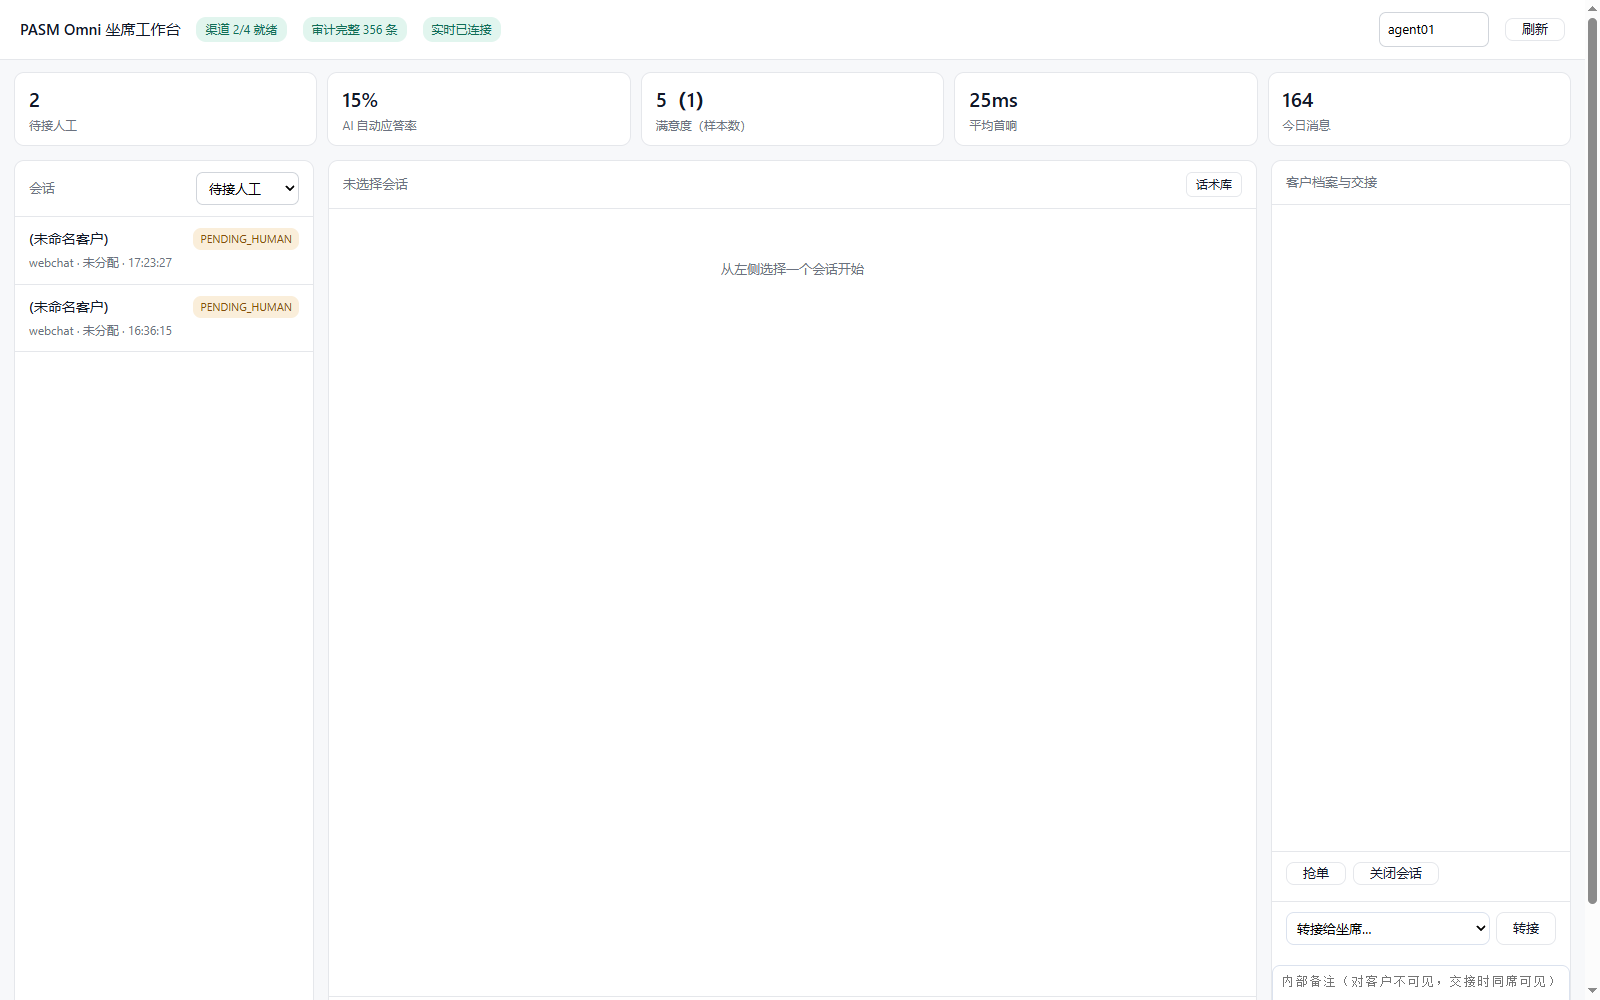
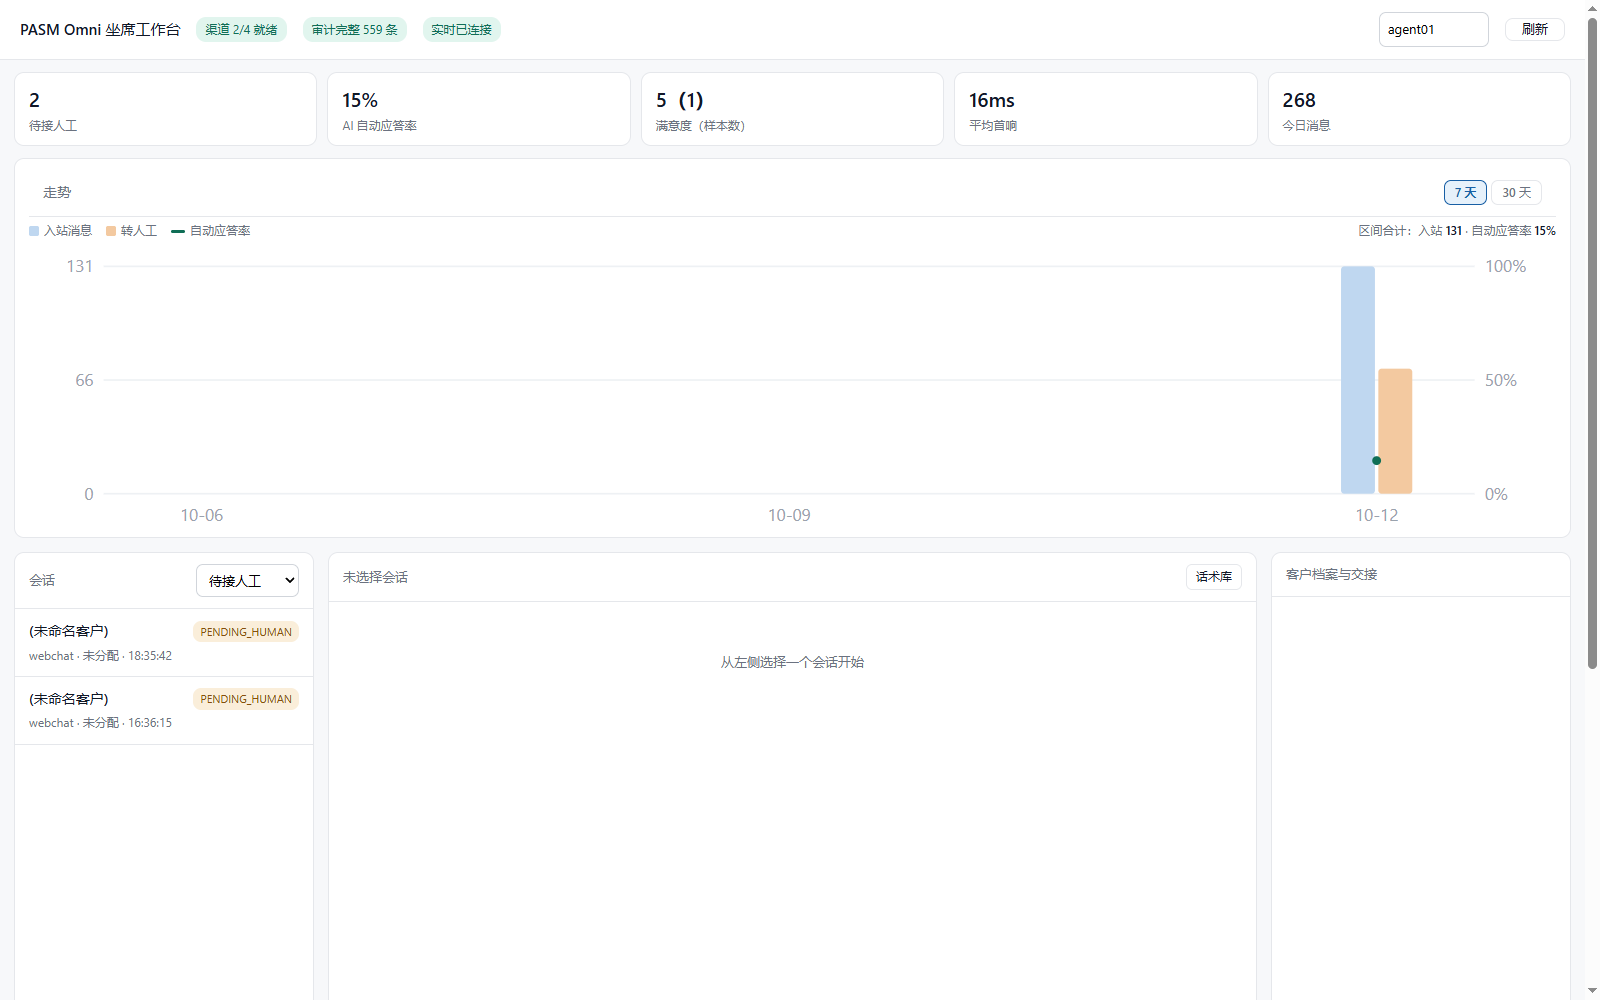
同步站点与截图（2026-10-12 19:02）

diff --git a/products.html b/products.html
@@ -51,6 +51,9 @@
           <tr data-page-node-id="MQ5A90oqJgRS6rzSbKZQUq"><td data-page-node-id="Dp8VEzkk27h209UV4o4jcO">Telegram 渠道</td><td data-page-node-id="C6Sb3V49tzL1bu7mpeE6cQ">Bot Token 配置即用</td><td class="center yes" data-page-node-id="ORuE3Mu8Ft6u0jpBELqRHK">✓</td><td class="center yes" data-page-node-id="U6p90cg0KBWsScDBUq27nh">✓</td></tr>
           <tr data-page-node-id="w4wnrKpPrSPLA9b5ctrKkt"><td data-page-node-id="vYPWDKpNGSwOzfdP9fDSfn">passthrough 通用外接口</td><td data-page-node-id="EOuHoniRH96nEDidRR5MdZ">任何语言/任何既有系统 POST JSON 即接入，出站可配转发地址</td><td class="center yes" data-page-node-id="cPOqcwJCTjDPxio3SbFbIi">✓</td><td class="center yes" data-page-node-id="yRAjylSGmWEx715Ub0bGJy">✓</td></tr>
           <tr><td>企业微信渠道</td><td>自建应用回调（含 AES 加密、签名校验、URL 验证）＋应用消息主动下发；access_token 自动缓存刷新。零第三方依赖的纯 Python AES，经 FIPS-197 / NIST 官方向量与企微官方协议样例双重验证</td><td class="center yes">✓</td><td class="center yes">✓</td></tr>
+          <tr><td>Line 渠道</td><td>Messaging API：<code>X-Line-Signature</code> （HMAC-SHA256 + base64）验签；只放行文本消息事件，图片/贴纸等不入应答域；出站走 Push API（不受 Reply Token 30 秒时效限制）</td><td class="center yes">✓</td><td class="center yes">✓</td></tr>
+          <tr><td>飞书 / Lark 渠道</td><td>事件订阅 v2：支持 <b>URL 验证</b>、明文与 <b>AES 加密模式</b>（key=sha256(encrypt_key)、IV=密文前 16 字节）；群聊按 chat_id 归人，避免全群挤成一个客户档案</td><td class="center yes">✓</td><td class="center yes">✓</td></tr>
+          <tr><td>钉钉渠道</td><td>企业机器人回调：<code>sign</code> 加签校验（含官方固定的换行格式）；优先用回调自带 <code>sessionWebhook</code> 回话（零额外配置），过期后自动走开放平台机器人接口兜底</td><td class="center yes">✓</td><td class="center yes">✓</td></tr>
           <tr data-page-node-id="fmXkhEerBK7bBswJQNTsZB"><td data-page-node-id="vxPsLxNeGyCRAKknbtDwu3">自定义渠道注册表</td><td data-page-node-id="FxBZgMvwVaM8mUjtm55MoE">继承 Channel + register() 即成为正式渠道，内核零改动；支持 load_external 第三方包</td><td class="center yes" data-page-node-id="ByrtCpBKQ1Alsn9K4NvIHG">✓</td><td class="center yes" data-page-node-id="k3cG7rUETlUr8ggJGNdEod">✓</td></tr>
           <tr data-page-node-id="1uy26h6xyrm5PFd8VBrd2O"><td data-page-node-id="KVm536obugGldOZhGzx6BG">WhatsApp / 微信等</td><td data-page-node-id="kiXIiRDSFUY1hzNwR4foXl">需挂靠 BSP 或企业资质（Meta 合作伙伴阶梯不可跳级），交付时协助接入</td><td class="center plan" data-page-node-id="zFdEI9QitDUKSqq1SGVUbp">BSP 协助</td><td class="center plan" data-page-node-id="r7DuSZwlJhLL9v8zABzv4y">企业版含</td></tr>
 
@@ -85,7 +88,7 @@
           <tr data-page-node-id="cfs0hCXudvusSgjcVO4jJE"><td data-page-node-id="qorRAA1IiWePUoMCxqCx9w">订单/商品管理</td><td data-page-node-id="jRVKRXyzHaCEmchBDzE0nz">需对接电商平台，属应用层而非内核职责</td><td class="center plan" data-page-node-id="VFcARrBdbwiPyTE8bXSP2c">规划中</td><td class="center plan" data-page-node-id="rqxGN5k4oyEhpD5VUGVBqV">规划中</td></tr>
 
           <tr data-page-node-id="TZnXqnCurElOPVnnWFEjr5"><td colspan="4" class="grp" data-page-node-id="r3GtY8c0U6aVPRJuddIDgP">—— 数据与治理 ——</td></tr>
-          <tr data-page-node-id="BLyxgwKyoQsD9teZqbcZKC"><td data-page-node-id="v0DgyuRFpDExoR5OAa587H">数据报表看板</td><td data-page-node-id="HiDt4q6sAIHGzHSrqWe4dE">AI 应答率 / 首响耗时 / 满意度 / 会话与客户分布 / 今日消息量</td><td class="center yes" data-page-node-id="saURiv80fXYMYhS5dr4YGW">✓</td><td class="center yes" data-page-node-id="5KYvvxd6juZu4R1kQkJ9g6">✓</td></tr>
+          <tr data-page-node-id="BLyxgwKyoQsD9teZqbcZKC"><td data-page-node-id="v0DgyuRFpDExoR5OAa587H">数据报表看板</td><td data-page-node-id="HiDt4q6sAIHGzHSrqWe4dE">AI 应答率 / 首响耗时 / 满意度 / 会话与客户分布 / 今日消息量；<b>7/30 天走势图</b>（入站量、转人工、自动应答率折线，内联 SVG 零依赖）</td><td class="center yes" data-page-node-id="saURiv80fXYMYhS5dr4YGW">✓</td><td class="center yes" data-page-node-id="5KYvvxd6juZu4R1kQkJ9g6">✓</td></tr>
           <tr data-page-node-id="ZWrcGShHyHbEqG8uyaD2p9"><td data-page-node-id="Bp3tC3rIYRhi8gwXIVdz1j">审计 hash 链</td><td data-page-node-id="ekw8bsYVreB5M49nv2WJPW">追加写 + 链式 hash，篡改/删除任意一条即时暴露，可定位断点</td><td class="center yes" data-page-node-id="2bi95zcNbyjFlgOG1HlBZs">✓</td><td class="center yes" data-page-node-id="mdjCuPrEz7qsLuTWVgJwEV">✓</td></tr>
           <tr data-page-node-id="JDw3jF3shICkzL5pSzwre9"><td data-page-node-id="TVxaMtqDZrV5Cbo3W8UOGq">工具级 RBAC</td><td data-page-node-id="gB4OWmOsxCadA21kIuxTJH">默认拒绝：高危工具未经显式授权即拒，拒绝也留痕</td><td class="center yes" data-page-node-id="8ssNetDLDDYlDtKNwe3IKD">✓</td><td class="center yes" data-page-node-id="aZokzpoDG3aFHOAFldqWXG">✓</td></tr>
           <tr data-page-node-id="duRcY3m4tbFwUb8ZgvbbzC"><td data-page-node-id="WHuUQOlP6Zb1ORcKoKmKgf">REST API</td><td data-page-node-id="ufIMkczhgmqNgZjo5Hfcgo">全部能力 HTTP 化，CORS 开放，供自有系统集成</td><td class="center yes" data-page-node-id="B04s9gFyV5Ddob23wfFSNc">✓</td><td class="center yes" data-page-node-id="8uEkvcydG7B3WMkcmcbqB2">✓</td></tr>

diff --git a/resources.html b/resources.html
@@ -70,6 +70,7 @@
           <li><span class="doc">wecom</span> 配置 / 查看企业微信渠道（corpid / agentid / secret / token / aeskey）</li>
           <li><span class="doc">templates</span> 消息模板与审核态：list / add / submit / approve / reject / render</li>
           <li><span class="doc">orders</span> 订单打通：enable / list / lookup / add / stats</li>
+          <li><span class="doc">channel</span> 配置/查看可选渠道（line / feishu / dingtalk，密钥自动打码）</li>
                     <li><span class="doc">link-add / link-list</span> 分流链接（活码）管理</li>
         </ul>
       </div>
@@ -119,6 +120,9 @@
           <tr><td><code>POST /inbound/shopify</code></td><td>Shopify 订单 webhook（HMAC 验签）</td></tr>
           <tr><td><code>POST /inbound/woocommerce</code></td><td>WooCommerce 订单 webhook（HMAC 验签）</td></tr>
           <tr><td><code>POST /inbound/orders/{source}</code></td><td>通用订单 webhook（base64 或 hex 签名）</td></tr>
+          <tr><td><code>POST /inbound/line</code></td><td>Line webhook（HMAC 验签）</td></tr>
+          <tr><td><code>POST /inbound/feishu</code></td><td>飞书事件回调（URL 验证 / 明文 / AES 加密）</td></tr>
+          <tr><td><code>POST /inbound/dingtalk</code></td><td>钉钉机器人回调（加签校验）</td></tr>
           <tr><td><code>GET /api/orders</code></td><td>订单列表与统计（agent 级）</td></tr>
           <tr><td><code>GET /api/orders/lookup</code></td><td>按单号 / 客户查订单（agent 级）</td></tr>
           <tr><td><code>POST /api/orders</code></td><td>手动/ERP 写入订单（<b>仅 admin</b>）</td></tr>
@@ -129,6 +133,7 @@
           <tr><td><code>POST /api/track</code></td><td>访客轨迹上报（external_id 自动解析建档）</td></tr>
           <tr><td><code>GET /api/visitors</code></td><td>访客轨迹时间线</td></tr>
           <tr><td><code>GET /api/analytics</code></td><td>数据报表（应答率/首响/满意度/分布）</td></tr>
+          <tr><td><code>GET /api/analytics/trend</code></td><td>按天走势（工作台图表用，agent 级；days=1–90）</td></tr>
           <tr><td><code>GET /api/contacts</code></td><td>客户列表（按分层/标签筛选）</td></tr>
           <tr><td><code>POST /api/contact/tag|tier|untag</code></td><td>客户标签与分层管理</td></tr>
           <tr><td><code>GET /api/knowledge</code></td><td>知识库列表</td></tr>
@@ -251,7 +256,7 @@
         <div class="a">免费版与商业版都是：只用 Python 标准库（sqlite3 / http.server / hashlib / json），Python 3.11+ 即可运行。CI 里有静态扫描守门：包内任何顶层 import pasm 都会让测试失败。</div>
       </details>
       <details>
-        <summary>579 项守门测试是什么？</summary>
+        <summary>692 项守门测试是什么？</summary>
         <div class="a">四套自动化测试：端到端 46 项（渠道/状态机/闸门/审计）、大脑层 34 项（含 PASM 真实集成）、功能补强 37 项（本轮全部 bug 修复与新功能）、HTTP 层 48 项（真实服务全链路）。全部退出码 0。</div>
       </details>
       <details>

diff --git a/promotion.html b/promotion.html
@@ -133,7 +133,7 @@
     </div>
     <div class="cards">
       <div class="card"><div class="icon">💰</div><h3>高额持续返佣</h3><p>每笔新订阅 10%–30% 返佣，连续 24 个月续费仍分成，一次推荐长期收益。</p></div>
-      <div class="card"><div class="icon">🛡</div><h3>产品真能打</h3><p>579 项守门测试全绿、零依赖可私有化、MCP 原生——推荐出去不砸自己招牌。</p></div>
+      <div class="card"><div class="icon">🛡</div><h3>产品真能打</h3><p>692 项守门测试全绿、零依赖可私有化、MCP 原生——推荐出去不砸自己招牌。</p></div>
       <div class="card"><div class="icon">📚</div><h3>专属顾问支持</h3><p>提供推广素材、答疑与跟进，你只负责分享，其余我们来。</p></div>
       <div class="card"><div class="icon">🌐</div><h3>关系网络复利</h3><p>加入即进入推荐官网络，客户资源互相引荐，收益渠道持续拓宽。</p></div>
     </div>

diff --git a/index.html b/index.html
@@ -69,7 +69,7 @@
     <div><div class="n">579</div><div class="l">项守门测试全绿</div></div>
     <div><div class="n">0</div><div class="l">第三方依赖（标准库实现）</div></div>
     <div><div class="n">30</div><div class="l">个 MCP 工具直接调用</div></div>
-    <div><div class="n">5</div><div class="l">内置渠道，外接不限</div></div>
+    <div><div class="n">8</div><div class="l">内置渠道，外接不限</div></div>
   </div>
 </div>
 
@@ -227,7 +227,7 @@
   <div class="wrap">
     <div class="cta-bar">
       <h2>先评审，再决定</h2>
-      <p>完整设计文档、规格契约与 579 项守门测试（可现场核验）。</p>
+      <p>完整设计文档、规格契约与 692 项守门测试（可现场核验）。</p>
       <a class="btn" href="resources.html">进入资源中心</a>
     </div>
   </div>
